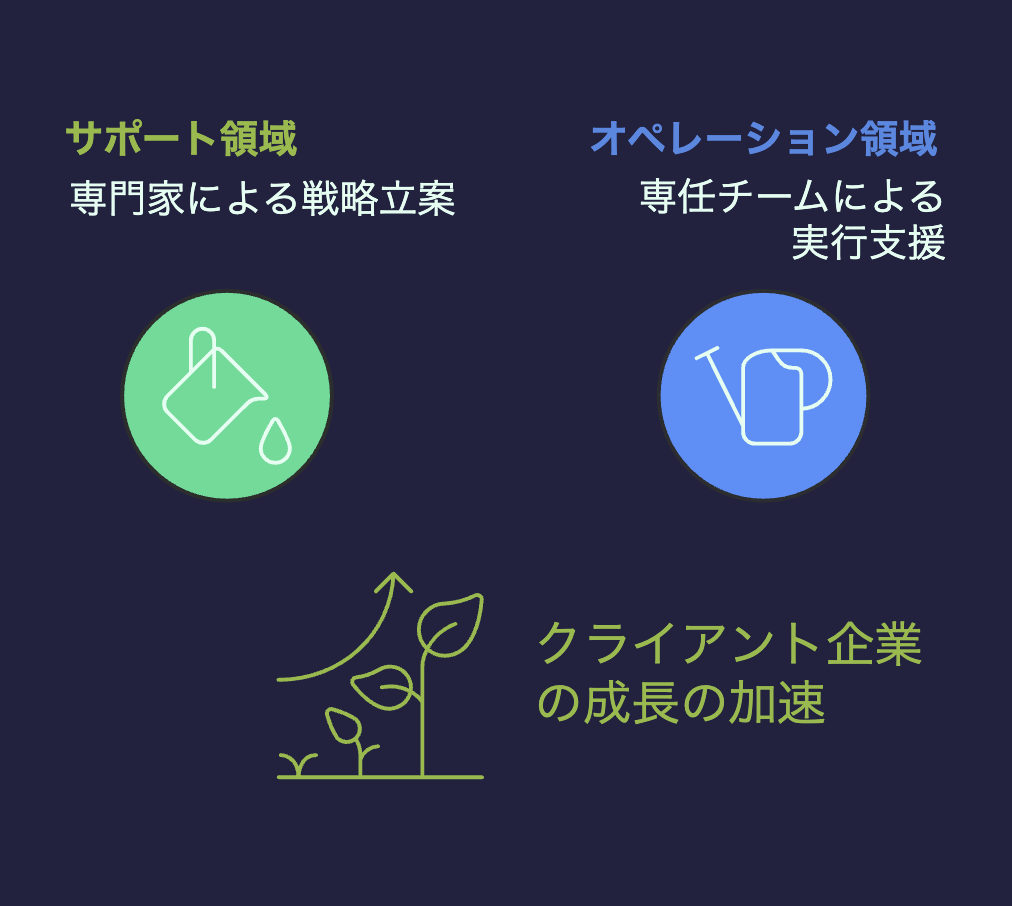
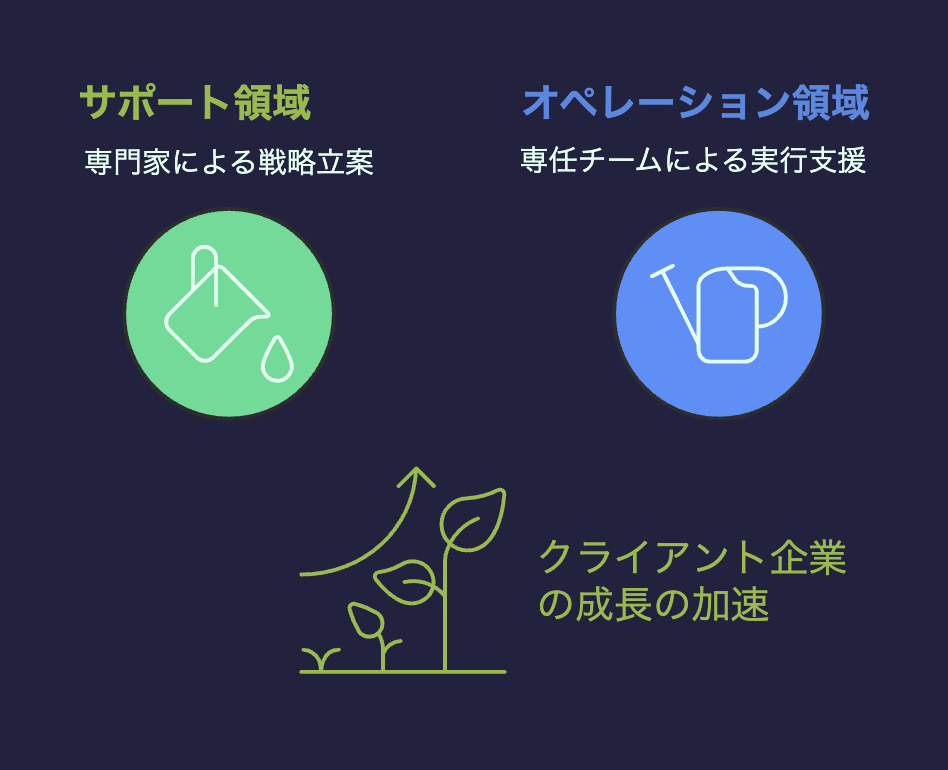
Update Musico approach image dimensions in Philosophy section

diff --git a/src/features/philosophy/_components/section-action.tsx b/src/features/philosophy/_components/section-action.tsx
@@ -30,8 +30,8 @@ export const SectionAction = ({ language }: Props) => {
           <Image
             src="/musico-approach.png"
             alt="musico-approach"
-            width={1012}
-            height={906}
+            width={948}
+            height={770}
             className="lg:w-[51%] bg-darkNavy/95"
           />
         </div>